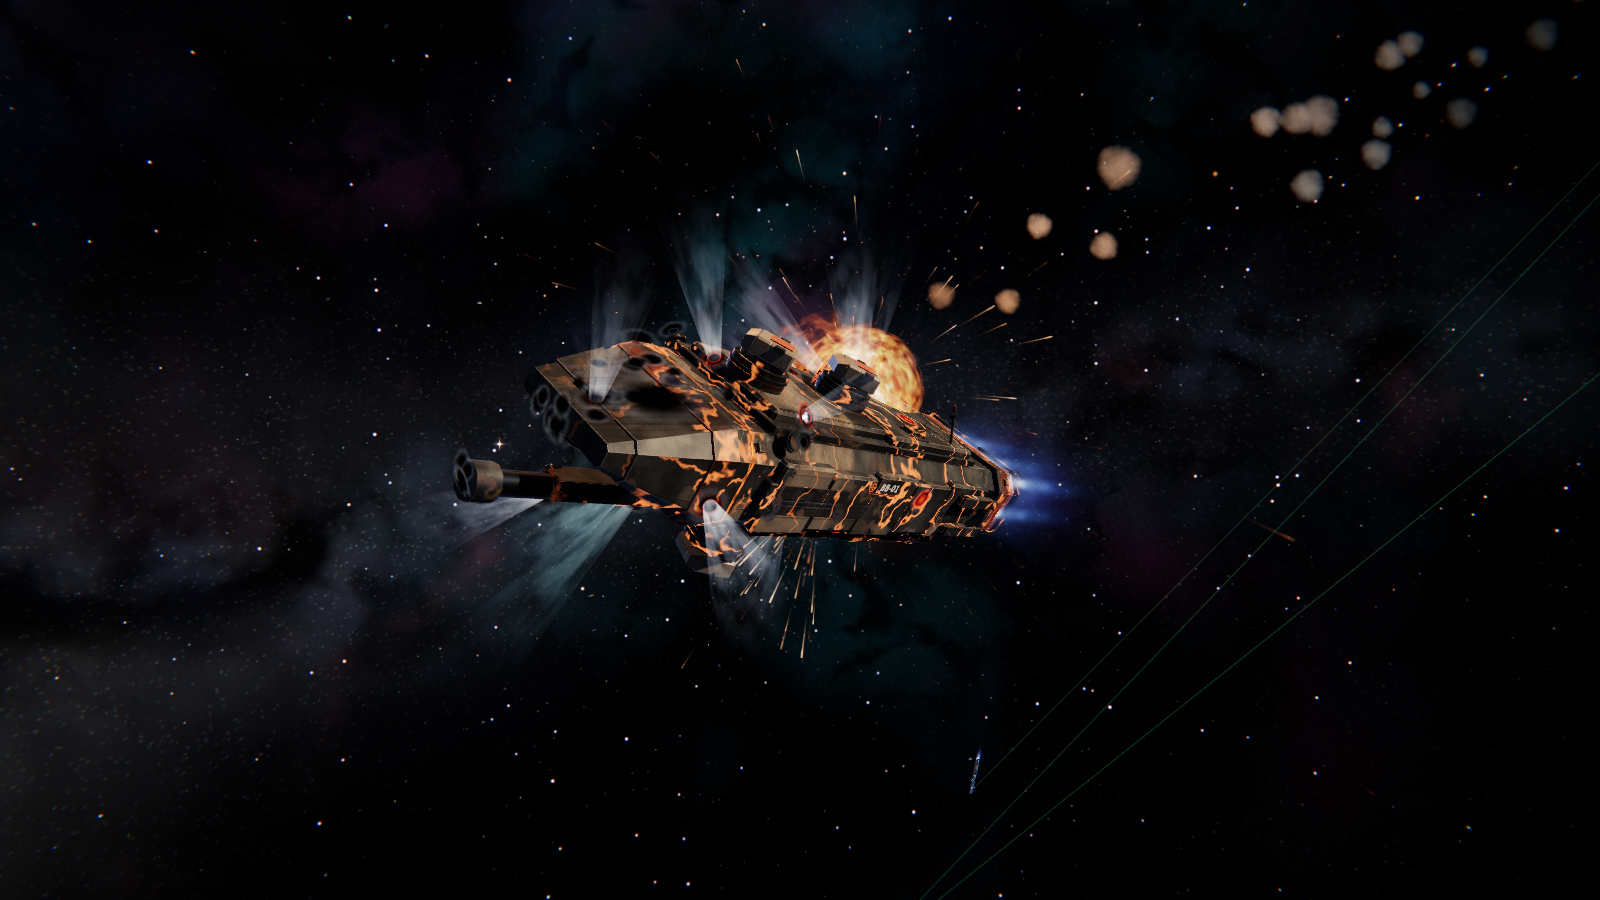
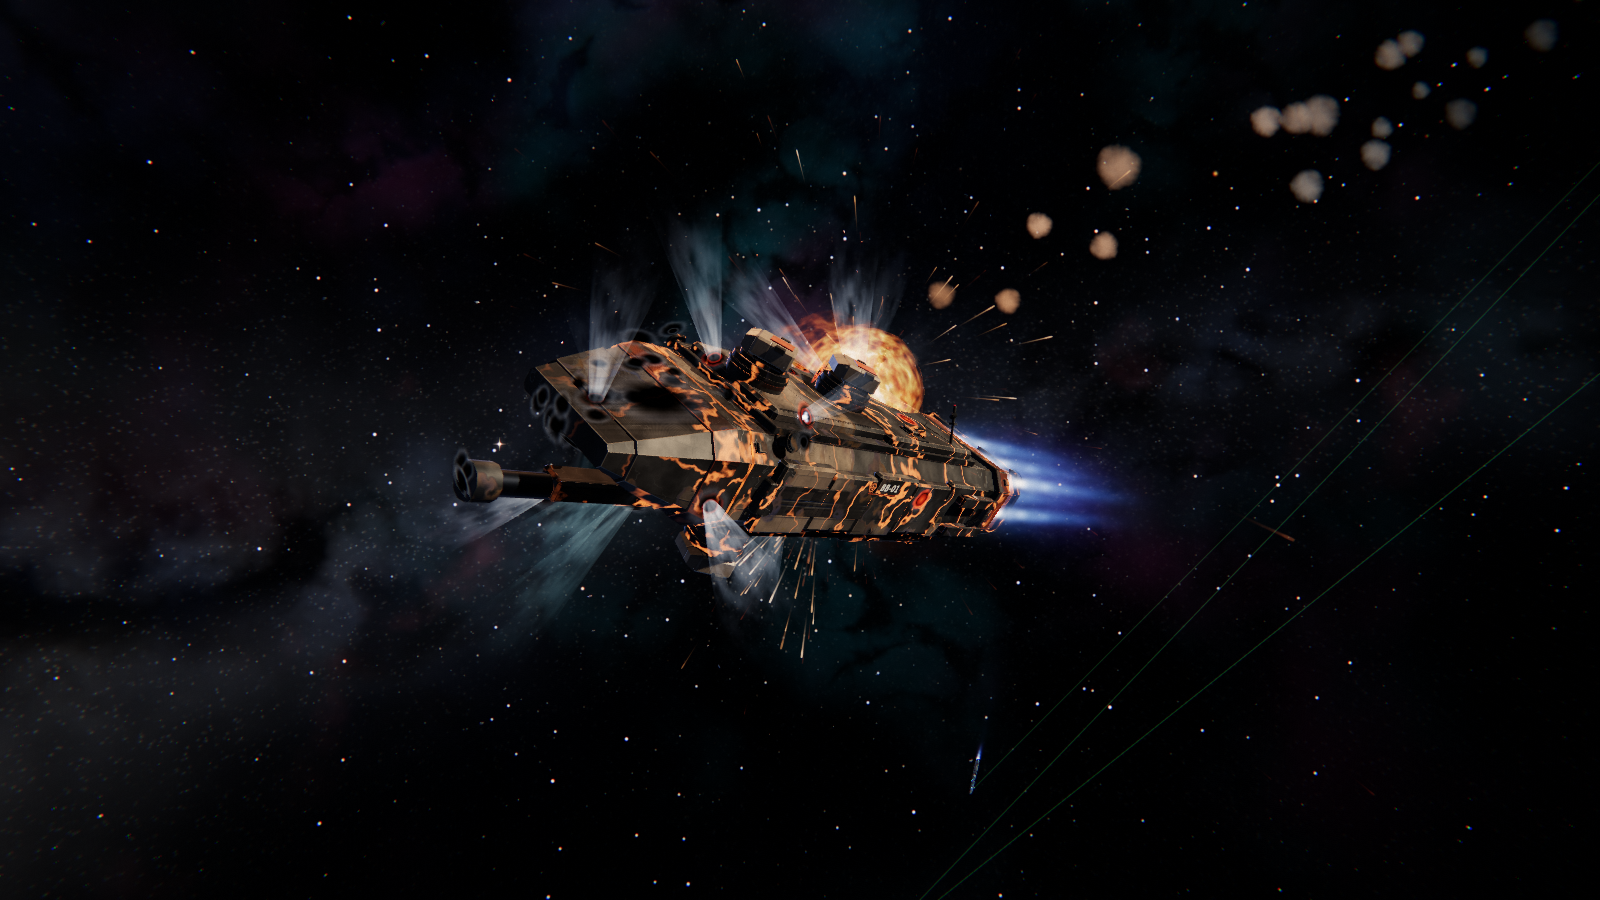
Launch sequence: bigger cold-gas puffs while separating, no fleet arrow beside a resolved hull; README: launch-sequence.png, lit-torch frames re-shot
New README image of a four-cell VLS salvo from the launch showcase (three
rounds lighting, one still turning about on its RCS) with its capture
command and caption next to the torpedo paragraph. dying-hulk, damage-hulk,
reactor-breach, torpedo-salvo, blast-shell, fittings-hud, torpedo-strike and
intent-consequence re-shot with their README commands (showcase s7 from its
staged copy). The recording-additions viewer note now describes the exact
rack bookkeeping.

Claude-Session: https://claude.ai/code/session_01UG3jV6zwB9tH5e8W89WnJJ

diff --git a/visualizer/src/render/Projectiles.js b/visualizer/src/render/Projectiles.js
@@ -500,13 +500,23 @@ export class Projectiles {
         const flarePx = this.pixelAt(this.b) * (terminal ? 3.6 : 2.6);
         this.flashes.add(this.b, this.bellAxis, Math.max((terminal ? 0.6 : 0.28) * size * tk, flarePx), (terminal ? 1.3 : 0.7) * Math.max(size, 0.6), 1);
       }
-      if (vis > 0.01) this.rcsJets(tr, time, vis, tk);
+      // In its launch sequence the round's cold-gas push is the show: the
+      // puffs read bigger (slow gas, like the hull RCS), and next to a hull
+      // big on screen the unit needs no fleet-range arrow to be found
+      let seqW = 0, nearHull = 0;
+      if (tr.launch?.state) {
+        seqW = time < (tr.ignitionAt ?? Infinity) ? 1 : 0;
+        const ls = this.manager.ships.get(tr.launch.ship);
+        if (ls?.visible) nearHull = THREE.MathUtils.smoothstep((ls.userData.drawn?.length ?? 0) / this.pixelAt(ls.position), 40, 120);
+      }
+      if (vis > 0.01) this.rcsJets(tr, time, vis, tk, 1 + 2.2 * seqW);
       // Small seeker glint keeps an unpowered body readable at mid range.
       this.b.copy(this.a).addScaledVector(this.dir, 1.02 * tk);
       this.flashes.add(this.b, this.dir, 0.045 * tk, disabled ? 0.06 : 0.18, 1);
       // Faction arrowhead at fleet range pointing along the round's travel
       // (not the Tracks checkpoint diamond), gone once the body resolves.
-      const mark = (1 - THREE.MathUtils.smoothstep(bodyPx, 8, 24)) * (disabled ? 0.4 : 0.9);
+      const mark = (1 - THREE.MathUtils.smoothstep(bodyPx, 8, 24)) * (disabled ? 0.4 : 0.9)
+        * (1 - nearHull * launchWeight(time, tr.launch?.t ?? -Infinity, tr.ignitionAt));
       if (mark > 0) {
         this.vel.fromArray(this.sample.vel);
         this.markers.add(this.a, this.vel.lengthSq() > 1 ? this.vel : this.dir, mark, tr.faction, disabled ? 5 : 7);
@@ -548,7 +558,7 @@ export class Projectiles {
    * glow, and each pulse leaves an expanding puff that drifts off along
    * the nozzle axis for PULSE.puffLife after it closes.
    */
-  rcsJets(tr, time, vis, tk = 1) {
+  rcsJets(tr, time, vis, tk = 1, puff = 1) {
     const list = this.pulses, lv = this.jetLv;
     for (let p = 0; p < list.count; p++) {
       const pulse = list[p];
@@ -573,10 +583,10 @@ export class Projectiles {
           this.flashes.add(this.jetP, this.jetD, (0.035 + 0.02 * level) * tk, 1.0 * level * vis * open, 5, seed);
         }
         // Exhaust puff: gas coasting off the nozzle, spreading thin.
-        const travel = (0.06 + 0.75 * (1 - Math.exp(-4 * age)) / 4) * tk;
+        const travel = (0.06 + 0.75 * (1 - Math.exp(-4 * age)) / 4) * tk * puff;
         this.jetQ.copy(this.jetP).addScaledVector(this.jetD, travel);
-        const radius = (0.03 + 0.075 * (1 - Math.exp(-6 * age))) * tk;
-        this.flashes.add(this.jetQ, this.jetD, radius, 0.3 * level * vis * fade * Math.min(1, age / 0.03), 5, seed);
+        const radius = (0.03 + 0.075 * (1 - Math.exp(-6 * age))) * tk * puff;
+        this.flashes.add(this.jetQ, this.jetD, radius, 0.3 * level * vis * fade * Math.min(1, age / 0.03) * (puff > 1 ? 1.4 : 1), 5, seed);
       }
     }
   }

diff --git a/docs/images/readme/README.md b/docs/images/readme/README.md
@@ -3,9 +3,10 @@
 Captured from the Three.js viewer on November 15, 2026 (pass-5 viewer: sun
 shadows, image-based fill, ambient occlusion, new hulls and effects) with
 headless Chromium (Playwright, SwiftShader WebGL) at 1600 × 900 with
-`--gfx high`. The four `damage-*` images were captured on November 17, 2026,
-`hero.png`, `dreadnought.png` and `plume-wash.png` re-shot on November 18,
-2026 (the one-piece drive plume), all at the viewer's default hull scale
+`--gfx high`. `damage-bow.png`, `damage-mounts.jpg` and `damage-cookoff.png`
+were captured on November 17, 2026; `hero.png`, `dreadnought.png`,
+`plume-wash.png`, `damage-hulk.png` and the new `launch-sequence.png` on
+November 18, 2026 (the one-piece drive plume, the torpedo launch sequence), all at the viewer's default hull scale
 (`auto`: real-size hulls up close); see [Hull scale](#hull-scale). The two live-mode images (`live-deliberation.png`,
 `draft-splash.png`) are still the October 25, 2026 captures. These are
 application screenshots: ship states, ordnance, damage, HUD text and commander
@@ -29,6 +30,7 @@ filters/scrolling, and for `command-net.png` a 2× device-scale crop.
 | `blast-shell.jpg` | Pass-5 damage demo | 152.6s | Reactor blast of `beta_5` (destroyer, killed at 150 s) 2.6 s on: fireball inside the blast shell drawn to the recorded 13 km radius, two escorts beside it, PD lasers still working; 6 hull lengths, azimuth 30°, elevation 18°; HUD hidden |
 | `fittings-hud.png` | Pass-5 damage demo | 180s | OCS Falchion-1 (`beta_2`) selected one second after the frigate TIS Ward-1's reactor blast caught it: kill toast with the blast radius, CAUGHT IN BLAST and DISARMED toasts, fitting pips in the ship registry, FITTINGS block (guns, PD with one damaged turret, drive) in the telemetry card; 5 hull lengths, azimuth 30°, elevation 18° |
 | `dreadnought.png` | Showcase s0 | 96.5s | `alpha_1`, the pass-5 dreadnought, three-quarter view from the sunlit side at full thrust; 3 hull lengths (0.83 km), azimuth −10°, elevation 35°, 20° lens; HUD hidden; scale auto |
+| `launch-sequence.png` | Launch showcase (`p5_plume2_launch_showcase.json.gz`, scripted `launch_showcase` battle) | 34.1s | The torpedo cruiser `alpha`, flank to its target, 4.1 s after emptying one cell of each VLS bank: three rounds lighting their torches 55-75 m off the hull, the round from the bank facing away still turning about on its RCS (it lights at 37 s); open hatches on the banks; 1.6 hull lengths, azimuth 60°, elevation 20°; HUD hidden; scale auto |
 | `plume-wash.png` | Pass-5 plume demo (`p5_plume_demo.json`, scripted `plume_wash` battle) | 62s | From beside the stern of the battleship `alpha_1` (lower left, torch lit) down its exhaust: one beam from the bells, fading with distance, to the destroyer `alpha_2` 6 km astern, glowing in the wash; camera 1.1 hull lengths ahead of the battleship's centre, 0.5 above, 1.5 to port, looking 14 lengths astern; HUD hidden; scale auto |
 | `damage-bow.png` | Sonnet 5 vs Sonnet 5.5, battle d | 297.6s | Bow of `alpha_1` (Sonnet 5's battlecruiser) after 35 nose hits, 8 of them penetrations (the last at 297 s), all five mounts wrecked; its magazine burns at 298 s. Camera 0.66 hull lengths ahead of the centre, 0.2 above, 0.3 to port, looking at the bow; HUD hidden; scale auto |
 | `damage-mounts.jpg` | Sonnet 5.5 vs Sonnet 5, battle c | 478s | `beta_1` (Sonnet 5's battleship) from above the bow, 27 s after its forward magazine cooked off (451 s): scorched deck, heavy battery `weapon_3` (destroyed at 453 s) smoking, two breaches venting; camera 0.35 lengths ahead, 0.55 above, 0.45 to port; HUD hidden; scale auto |
@@ -47,7 +49,7 @@ below carry `--query scale=cinematic` so they still reproduce.
 
 | Scale | Images |
 | --- | --- |
-| auto (default: real-size hulls up close) | `hero.png`, `dreadnought.png`, `plume-wash.png`, `damage-bow.png`, `damage-mounts.jpg`, `damage-cookoff.png`, `damage-hulk.png` |
+| auto (default: real-size hulls up close) | `hero.png`, `dreadnought.png`, `plume-wash.png`, `launch-sequence.png`, `damage-bow.png`, `damage-mounts.jpg`, `damage-cookoff.png`, `damage-hulk.png` |
 | cinematic (hulls ~60x oversize) | `hull-lineup.png`, `fleet-battle.png`, `torpedo-salvo.png`, `reactor-breach.jpg`, `dying-hulk.png`, `command-net.png`, `intent-consequence.png`, `blast-shell.jpg`, `fittings-hud.png`, `torpedo-strike.png`, `live-deliberation.png`, `draft-splash.png` |
 
 What was re-shot and why. `hero.png` and `dreadnought.png` are close-ups of
@@ -77,10 +79,14 @@ the bells to the washed destroyer instead of a flame, a dark gap and a pale
 cloud around the destroyer. The two dreadnought frames were taken from the
 staged copy of the same battle, `p4c_vfix_showcase_s0.json` (substitute it
 for `showcase_s0_200pt.json` in the commands if that file is not staged).
-Frames with a lit torch that were not re-shot (`dying-hulk.png`,
-`damage-hulk.png`, `reactor-breach.jpg` and the cinematic fleet and HUD
-shots) still show the November 17 torch: same placement, slightly cooler
-and with the slower, eased dying-drive cough.
+The other frames with a lit torch were re-shot the same day with their
+commands as written: `dying-hulk.png`, `damage-hulk.png`, `reactor-breach.jpg`,
+`torpedo-salvo.png`, `blast-shell.jpg`, `fittings-hud.png`, `torpedo-strike.png`
+and `intent-consequence.png` (the showcase s7 frames from its staged copy
+`p4c_vfix_showcase_s7.json`). Besides the torch they show the current viewer's
+point-defence beams and HUD layout. `fleet-battle.png` and `command-net.png`
+(torches a few pixels long) were not re-shot: their recordings were not
+staged.
 
 ## Recordings
 
@@ -95,6 +101,8 @@ and with the slower, eased dying-drive cough.
 - Pass-5 damage demo: `p5_damage_demo.json`, a seeded heuristic fleet battle
   (regeneration command in
   [`docs/pass-5-recording-additions.md`](../../pass-5-recording-additions.md))
+- Launch showcase: `p5_plume2_launch_showcase.json.gz` (`scripts/generate_test_battle.py launch_showcase`,
+  also in `data/recordings/`)
 - Pass-5 plume demo: `p5_plume_demo.json` (`scripts/generate_test_battle.py plume_wash`,
   see [`docs/pass-5-recording-additions.md`](../../pass-5-recording-additions.md))
 - Pass-5 tactics showcase: `p5_readme_torpedo_strike.json` (heuristic captains, `tactical`
@@ -176,6 +184,10 @@ $SNAP --recording p5_damage_demo.json --query "ship=beta_2&scale=cinematic" --ti
 $SNAP --recording showcase_s0_200pt.json --time 96.5 --focus alpha_1 --dist 3.0 --az -10 --el 35 --hide-ui \
   --eval "(() => { $TRACKS_OFF; const c = window.visualizer.scene.camera; c.fov = 20; c.updateProjectionMatrix(); })()" \
   --out dreadnought.png
+
+# launch-sequence.png
+$SNAP --recording p5_plume2_launch_showcase.json.gz --time 34.1 --focus alpha --dist 1.6 --az 60 --el 20 \
+  --hide-ui --eval "$TRACKS_OFF" --out launch-sequence.png
 
 # plume-wash.png
 $SNAP --recording p5_plume_demo.json --time 62 --hide-ui \

diff --git a/README.md b/README.md
@@ -75,7 +75,7 @@ Open **[the Sonnet 5 vs DeepSeek torpedo swarm](http://localhost:5173/?recording
 
 **Ships are their real size.** Hulls are 65 to 275 m long and fight at tens to hundreds of kilometres. In the default **auto** scale a ship near the camera is drawn at exactly its real size, and everything that touches it is at real scale and in the right place: coilgun slugs and torpedoes arrive at the hull and stop there, a miss passes beside it, point-defense beams leave the turret that fired, a reactor blast is the engine's 10 to 20 km against a 100 m hull, and a torch's exhaust is one straight lance from the bells: a blinding flame a few hull lengths long that continues as a spear fading over tens of kilometres astern, the 3 degree cone the engine's plume wash uses (`?jets=0` hides the spear). A hull too far away to see is enlarged only as far as needed to stay a small readable silhouette (about 2 to 4% of the view height, growing smoothly from real size with no jump), with the contact brackets and labels on top. **S** cycles to **true** (always real size; at distance only the markers remain) and **cinematic** (every hull about 60 times oversize at every range, the look of earlier versions). Screenshots on this page captioned *cinematic scale* were captured in that mode; the others use the default.
 
-Each of the nine hull classes has its own design, drawn to scale in faction livery with its real armament: spinal coilers, battery turrets and point-defense mounts at one physical size on every hull, torpedo banks whose cells empty as rounds launch, radiators that telescope out and glow with the heat they reject, and RCS thrusters that fire as a ship turns or jinks. Coilgun slugs leave the barrel that fired them. Kinetic torpedo strikes flash and throw spall instead of exploding like warheads. Hits leave cooling craters, scorched plating and venting breaches, and killed ships become burning hulks before their reactors go. Everything, including destruction, reconstructs correctly when you scrub backward.
+Each of the nine hull classes has its own design, drawn to scale in faction livery with its real armament: spinal coilers, battery turrets and point-defense mounts at one physical size on every hull, torpedo banks whose rails and cells empty round by round as the engine launches them, radiators that telescope out and glow with the heat they reject, and RCS thrusters that fire as a ship turns or jinks. Coilgun slugs leave the barrel that fired them. Kinetic torpedo strikes flash and throw spall instead of exploding like warheads. Hits leave cooling craters, scorched plating and venting breaches, and killed ships become burning hulks before their reactors go. Everything, including destruction, reconstructs correctly when you scrub backward.
 
 ![Nine hull classes in two facing columns, blue-grey alpha ships on the left and rust-orange beta ships on the right, from siege dreadnought down to corvette](docs/images/readme/hull-lineup.png)
 
@@ -86,6 +86,10 @@ Each of the nine hull classes has its own design, drawn to scale in faction live
 ![Two battleships under thrust with fans of point-defense laser beams converging on an incoming torpedo's burn trail, while a penetrator strikes one hull](docs/images/readme/torpedo-salvo.png)
 
 *Point-defense lasers dwell on an inbound torpedo while another round strikes the hull (cinematic scale: the two battleships are about 20 km apart).*
+
+![A torpedo cruiser with its launch cells open: three rounds lighting their torches tens of metres off the hull, a fourth still drifting clear on puffs of cold gas](docs/images/readme/launch-sequence.png)
+
+*A torpedo leaves its own cell, drifts clear on its thrusters, turns onto its target and only then lights its torch: four seconds after a four-cell salvo three rounds light, while the round from the bank facing away is still turning about.*
 
 ![A battleship's reactor breach: an orange fireball inside an expanding shock shell, debris streaks, and a sister ship's engine plume crossing the blast](docs/images/readme/reactor-breach.jpg)
 

diff --git a/docs/pass-5-recording-additions.md b/docs/pass-5-recording-additions.md
@@ -1271,13 +1271,14 @@ collision model for launches.
 A launch with the sequence switched off (`CombatSimulation.launch_sequence =
 False`, `AIC_LAUNCH_SEQUENCE=0`, measurement only) has none of the sequence fields.
 
-Viewer note: `HullRigs.assignLaunches` deals a ship's launches to its magazine
-banks round robin by launch count and empties each bank in index order; the
-engine picks the first ready tube and the round by geometry (above), so the
-round the viewer removes can differ from the one that left. `mount` (bank =
-launcher index in `hull_mounts` order) and `round` give the exact rack round /
-cell; `rounds[round].pos` is where the animation starts. Without these fields
-(old recordings) keep the old dealing.
+Viewer note: the rack (`HullRigs.assignRounds`) empties exactly the round
+named by `mount` (bank = launcher index in `hull_mounts` order,
+`HullRigs.launcherBank`) and `round`; launches without these fields (old
+recordings) are dealt as before (banks round robin by launch count, each bank
+emptied in index order). A wrecked tube (`mount_damaged`, launcher destroyed)
+and a cook-off (`torpedoes_lost`) take their rounds off the rack too, so it
+matches the HUD magazine count. The flying round starts at `rounds[round].pos`
+(`WeaponTimeline.launchState`, drawn by `render/LaunchSequence.js`).
 
 ### `torpedo_ignition` (new event)
 
